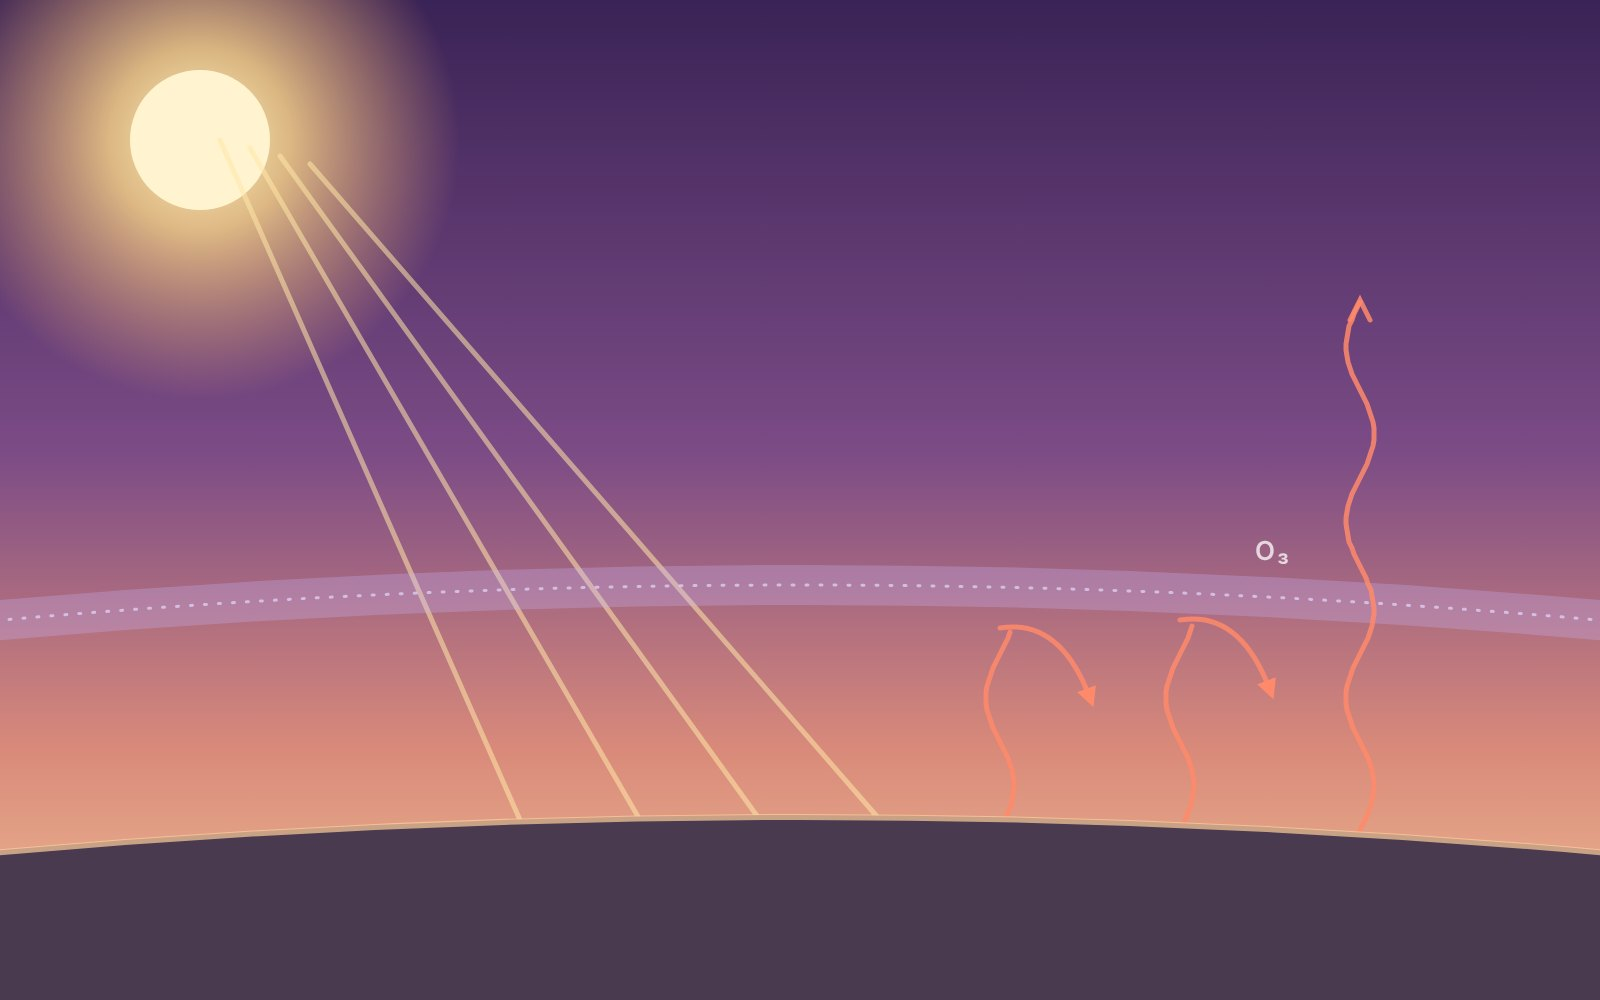
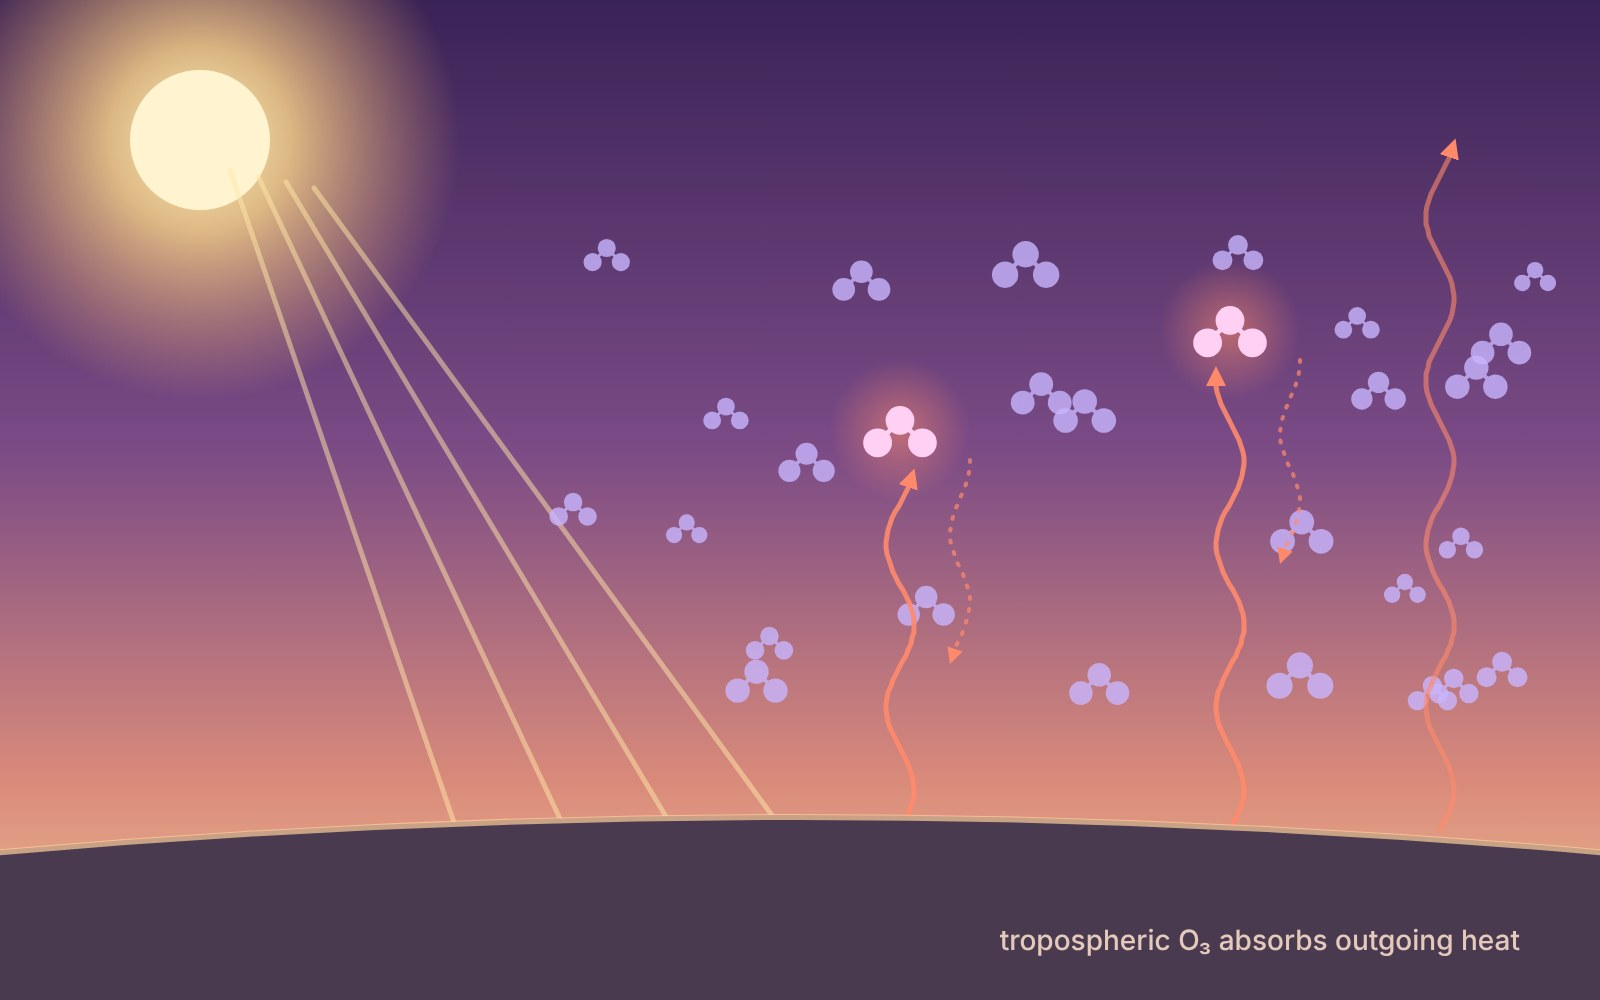
Ozone card art: drivers schematic and no-layer greenhouse illustration
Claude-Session: https://claude.ai/code/session_01Sz3TkAXuZ8q1u86dbqgzUs

diff --git a/research.html b/research.html
@@ -51,7 +51,7 @@
     <div class="era"><h2>Tropospheric ozone &amp; climate</h2><span>MIT · 2022–present</span></div>
     <div class="research-grid">
       <a href="research/ozone-trends.html" class="rcard t-sky reveal">
-        <img src="assets/img/card-ozone-trends-art.jpg" alt="Illustration of the troposphere with clouds below, an airplane in the upper troposphere, and a rising trend line" class="rcard__img rcard__img--photo" loading="lazy">
+        <img src="assets/img/card-ozone-trends-art.jpg" alt="Schematic of drivers of tropospheric ozone: surface anthropogenic, aircraft, and biomass burning emissions of NOx, CO and VOCs, ozone-depleting substances in the stratosphere, and internal climate variability" class="rcard__img rcard__img--photo" loading="lazy">
         <div class="rcard__body">
           <div class="tags"><span class="tag">Detection &amp; attribution</span><span class="tag tag--sub">Tropospheric ozone trends</span></div>
           <h3 class="rcard__title">Detecting and attributing tropospheric ozone trends</h3>
@@ -60,7 +60,7 @@
         </div>
       </a>
       <a href="research/ozone-climate.html" class="rcard t-sage reveal">
-        <img src="assets/img/card-ozone-climate-art.jpg" alt="Illustration of sunlight reaching Earth and outgoing heat partly trapped by a layer of tropospheric ozone" class="rcard__img rcard__img--photo" loading="lazy">
+        <img src="assets/img/card-ozone-climate-art.jpg" alt="Illustration of ozone molecules spread through the troposphere absorbing heat radiated from Earth's surface" class="rcard__img rcard__img--photo" loading="lazy">
         <div class="rcard__body">
           <div class="tags"><span class="tag">Radiative forcing</span><span class="tag tag--sub">Climate response</span></div>
           <h3 class="rcard__title">Climate impacts of tropospheric ozone</h3>
